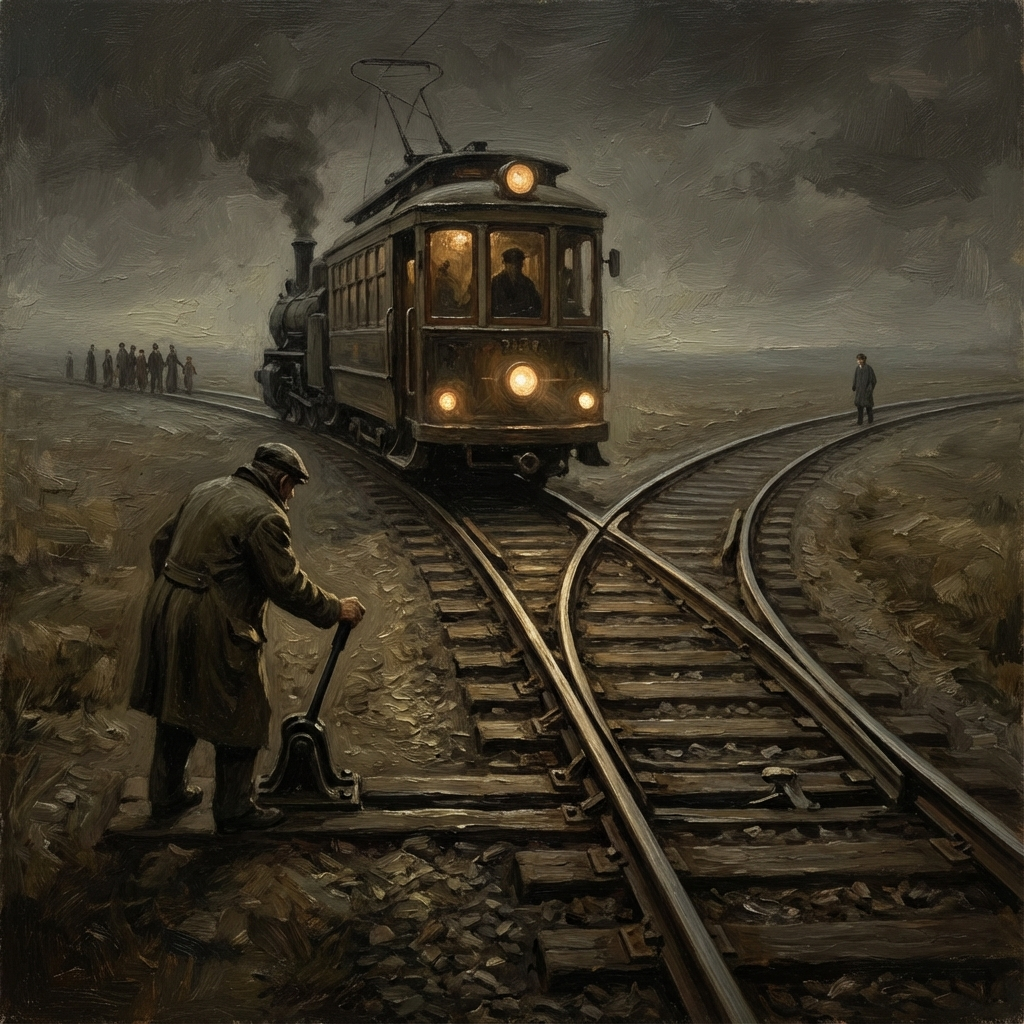
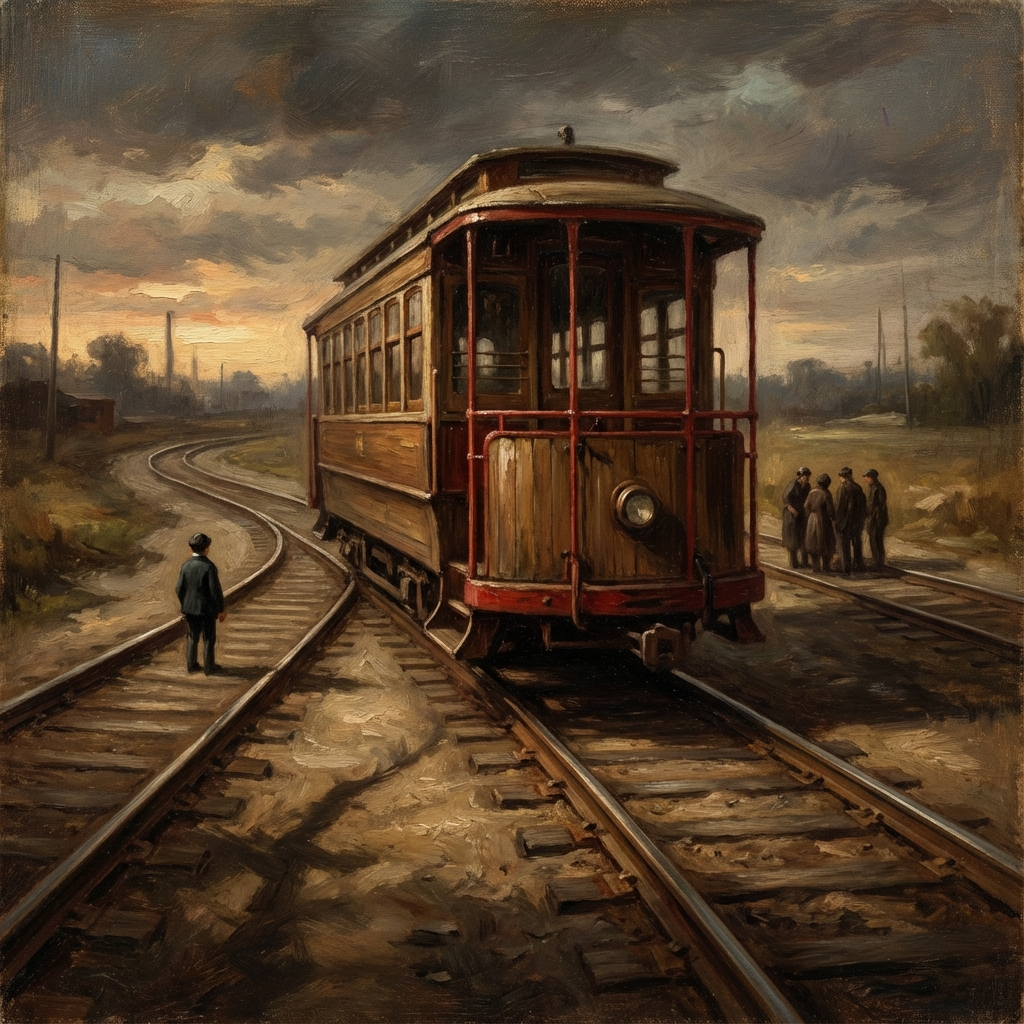
Update meditation and trolley problem card images and prompts

diff --git a/prompts.md b/prompts.md
@@ -5,6 +5,8 @@ The standard format used for all philosopher portraits to ensure visual consiste
 
 `Oil painting portrait of [Philosopher Name], [Role/Description], [Specific Visual Details], classical style.`
 
+For spell cards and scenes, ensure `full screen view, no frame` is added to avoid borders.
+
 ## Specific Prompts Used
 
 ### Eastern Philosophers
@@ -24,6 +26,10 @@ The standard format used for all philosopher portraits to ensure visual consiste
 - **David Hume**: `Oil painting portrait of David Hume, Scottish enlightenment philosopher, skeptical expression, 18th century attire, classical style.`
 - **Baruch Spinoza**: `Oil painting portrait of Baruch Spinoza, Dutch philosopher, lens grinder, thoughtful expression, 17th century attire, classical style.`
 - **Karl Marx**: `Oil painting portrait of Karl Marx, German philosopher, iconic beard, intense gaze, 19th century attire, classical style.`
+
+### Spells
+- **Meditation**: `Oil painting of a serene Buddhist monk meditating in lotus position, surrounded by soft golden light, peaceful temple background, cherry blossoms, tranquil atmosphere, classical style, full screen view, no frame`
+- **Weichensteller (Trolley Problem)**: `Oil painting of the rear side view of a runaway trolley on tracks splitting in two directions, one person on one track and four people on the other track, dramatic lighting, ethical tension, classical style, full screen view, no frame`
 
 ## Future Prompts (Planned)
 - **Søren Kierkegaard**: `Oil painting portrait of Søren Kierkegaard, Danish philosopher, melancholy expression, high collar, 19th century attire, classical style.`
